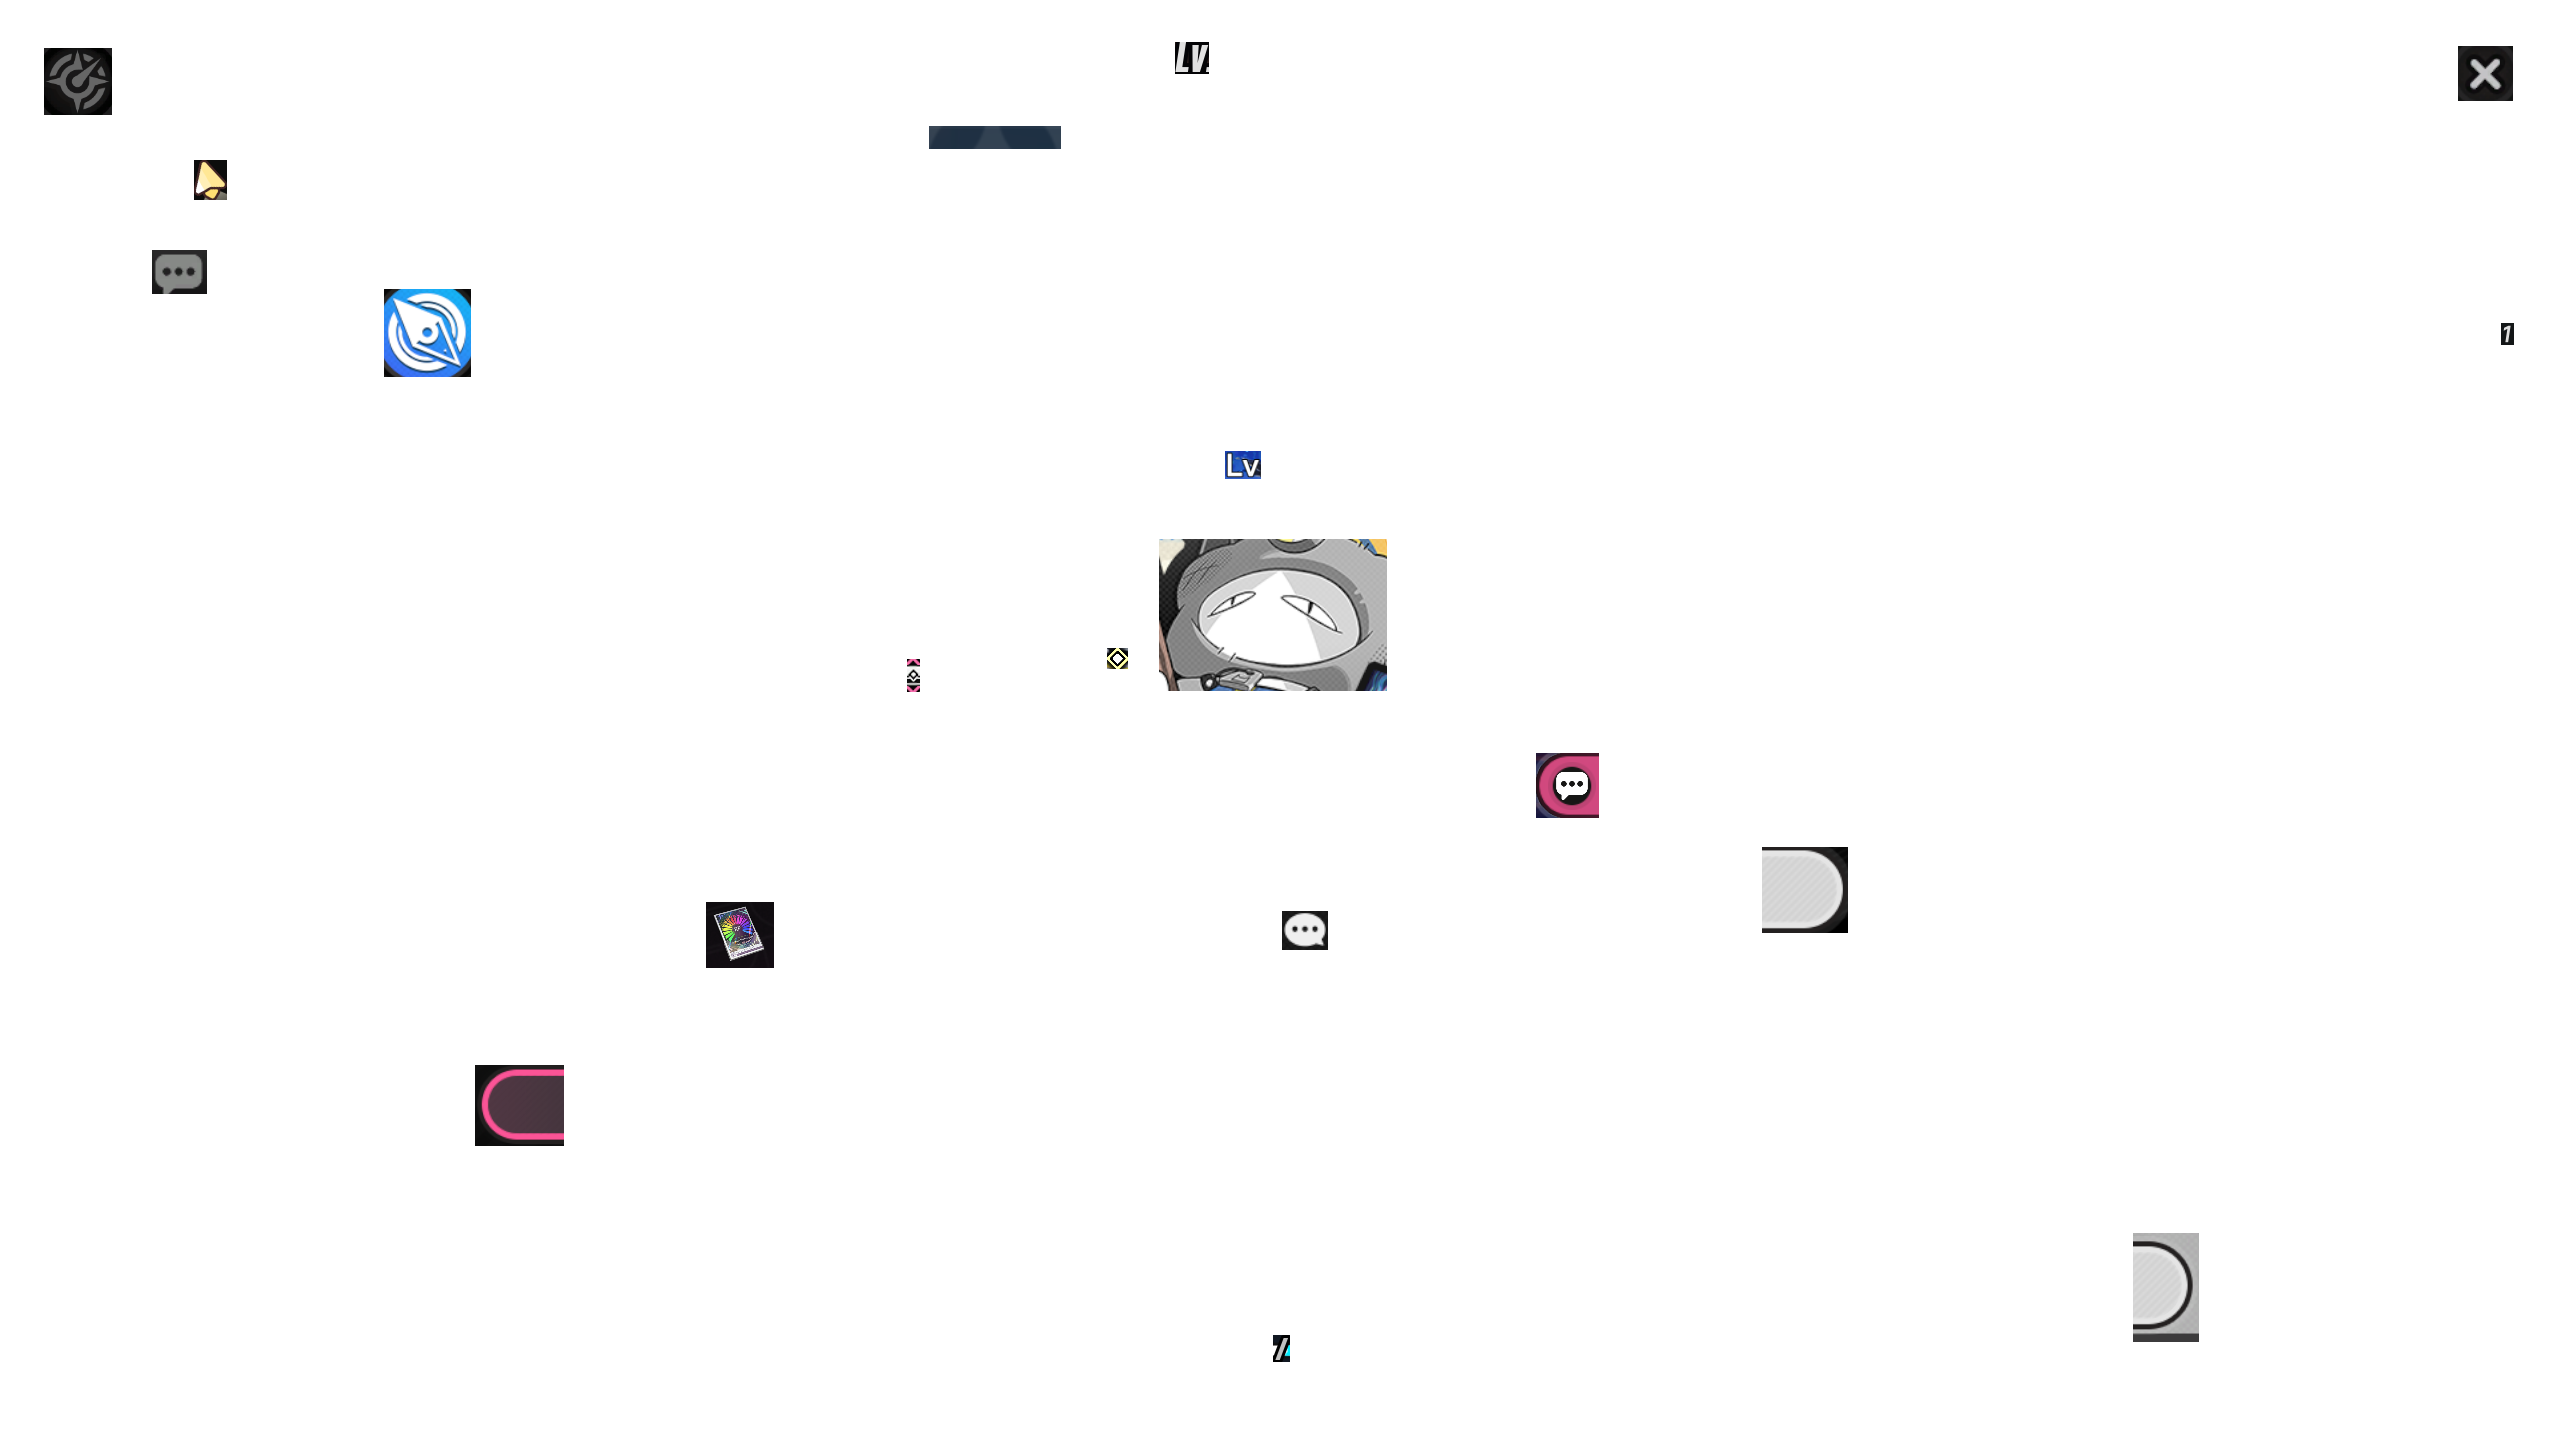
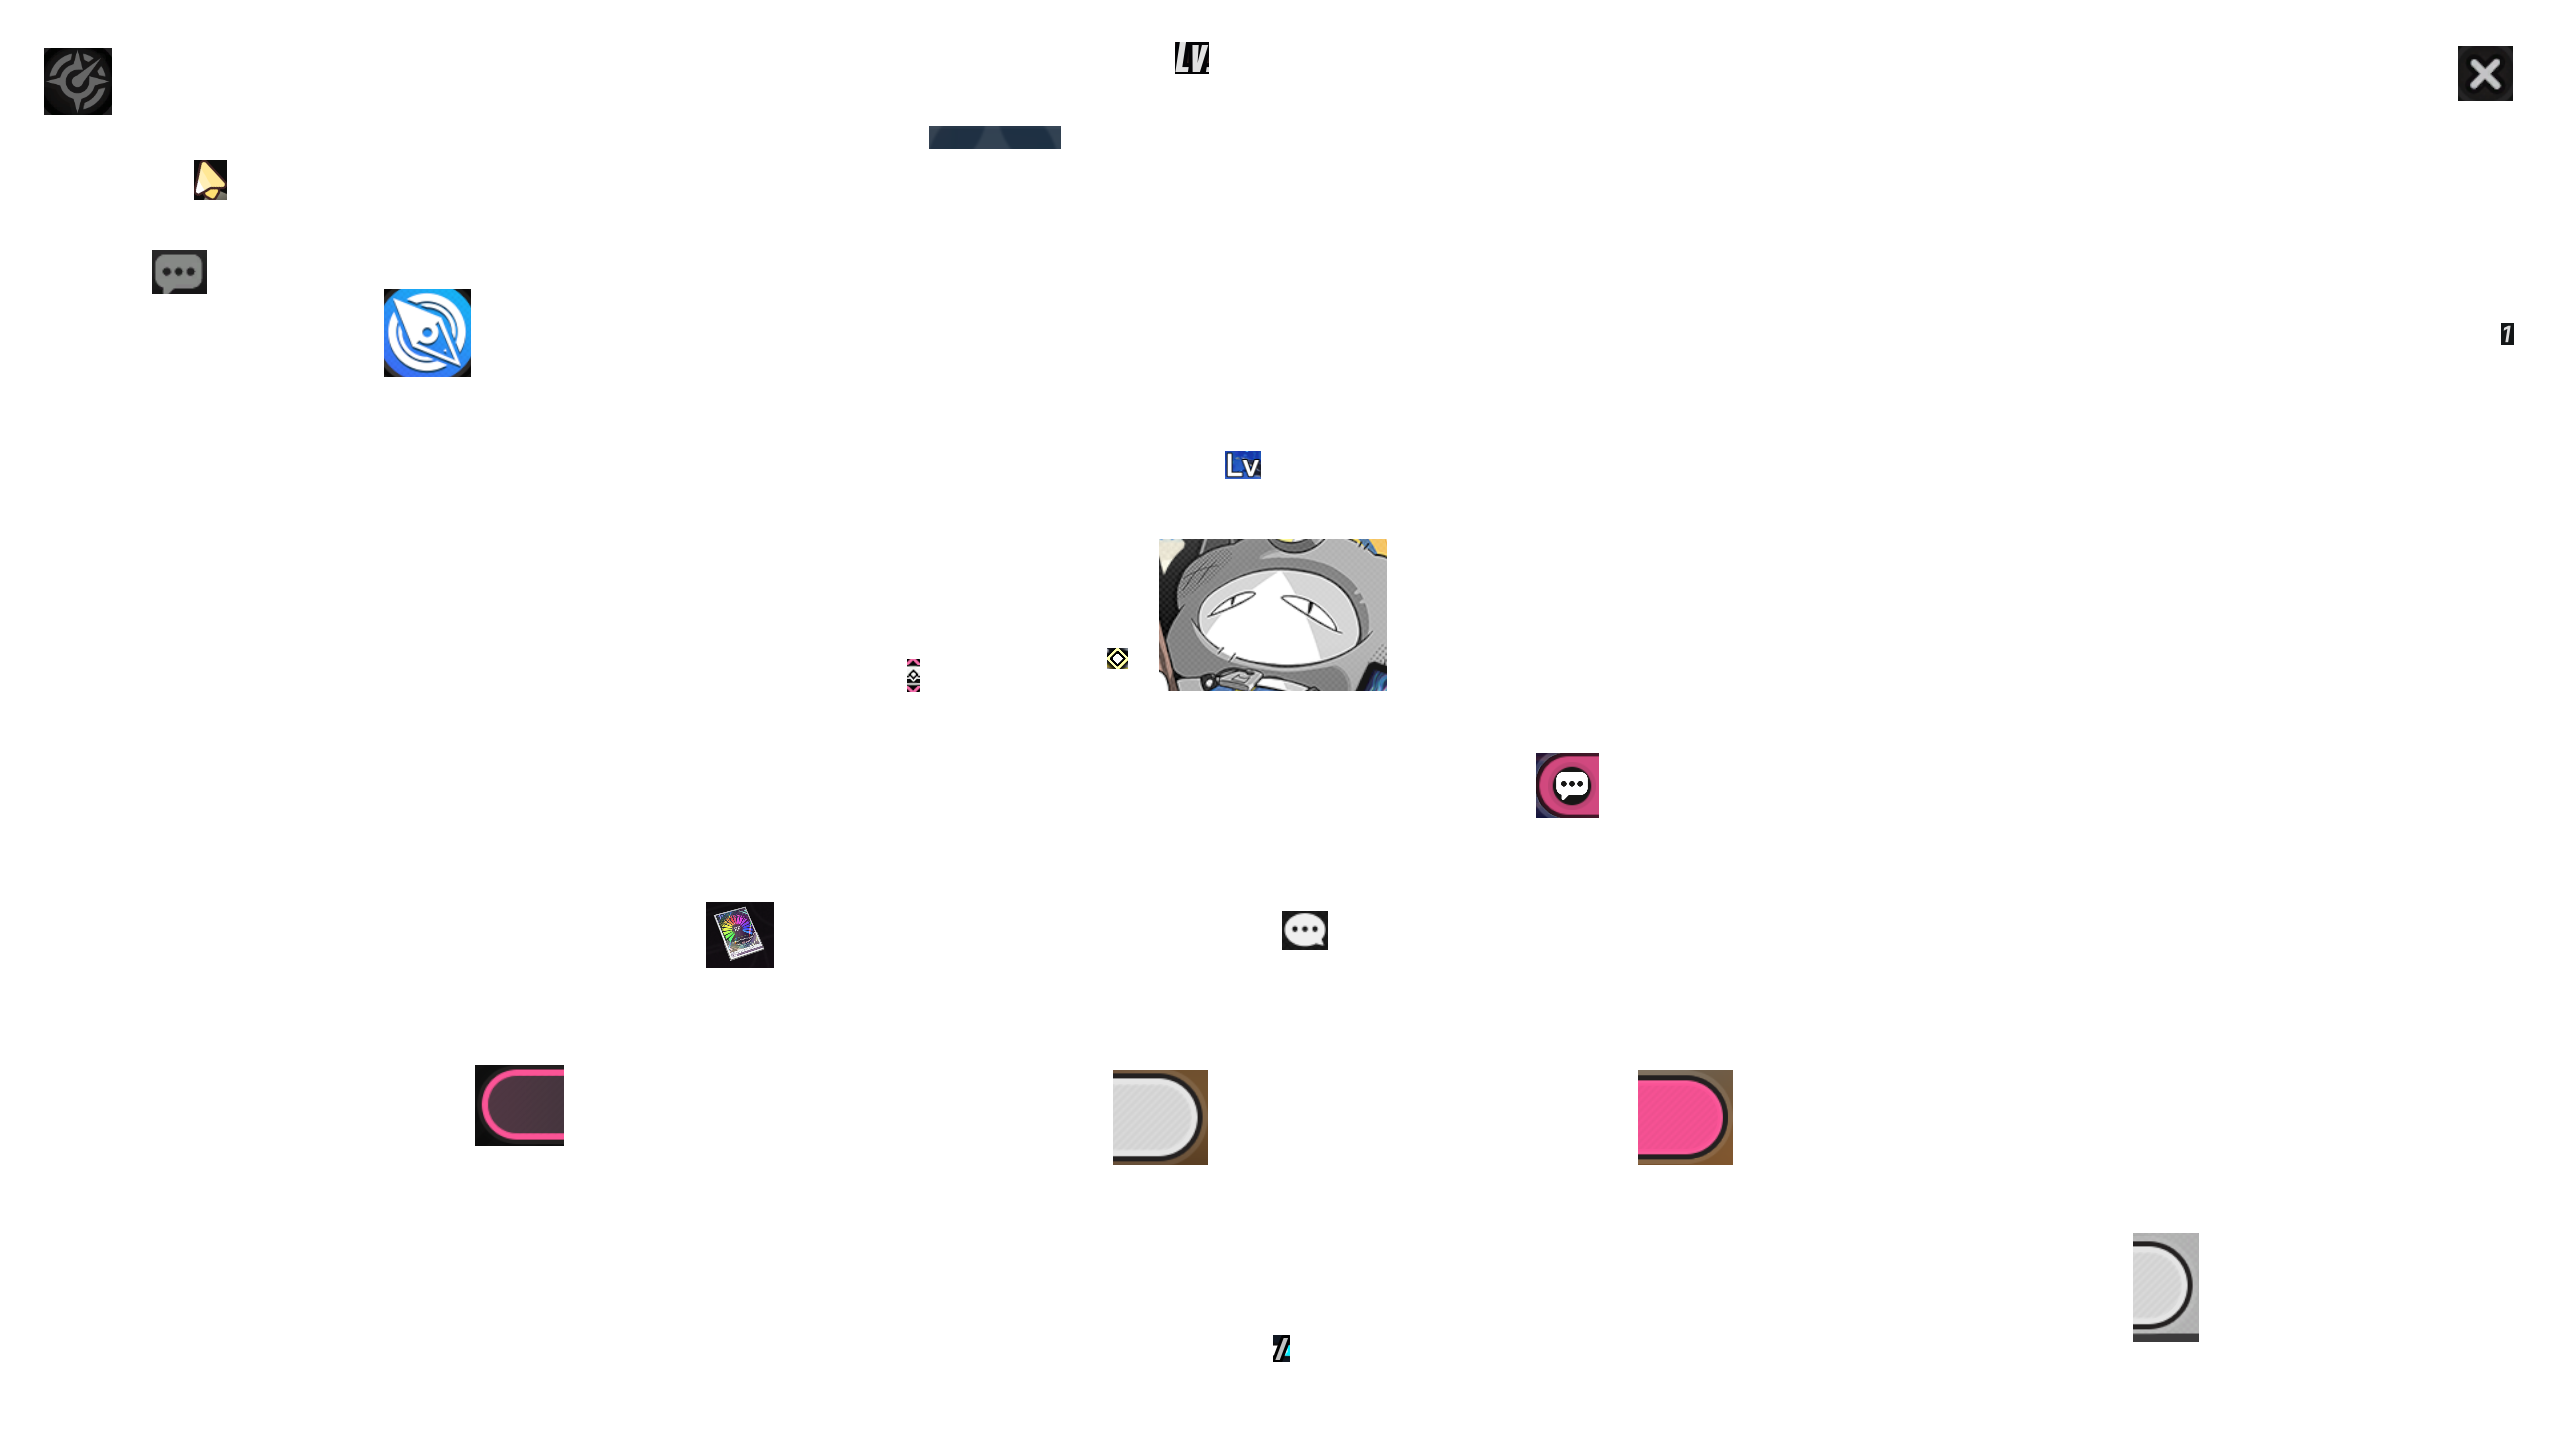
refactor: 重构确认按钮检测逻辑并支持多种按钮类型
- 移除旧的 `skip_quest_confirm` 标签，新增 `confirm_btn_1` 和 `confirm_btn_2` 以提高识别覆盖率。
- 在 `BaseNTETask` 中新增 `find_confirm` 方法，统一处理多种确认按钮的匹配。
- 优化 `wait_click_confirm` 方法，支持更灵活的参数配置和自动居中检测。
- 更新 `FishingTask`、`OwnerSelectionTask` 和 `SkipDialogTask` 适配新的确认按钮检测逻辑，简化任务代码。
- 更新 `coco_annotations.json` 标注数据，同步更新 `ok_templates` 子项目。

Changed region(s): [[0.625, 0.7188, 0.6875, 0.8125], [0.6875, 0.5625, 0.7188, 0.6562], [0.4375, 0.7188, 0.4688, 0.8125]]

diff --git a/src/tasks/OwnerSelectionTask.py b/src/tasks/OwnerSelectionTask.py
@@ -67,6 +67,14 @@ class OwnerSelectionTask(NTEOneTimeTask, RecordTask):
         self.info_set("失败原因", None)
         self.log_info(f"开始店长特供，共 {rounds} 轮")
 
+        self.wait_until(
+            lambda: not self.is_in_team(),
+            pre_action=lambda: self.send_key("f", interval=1),
+            settle_time=0.5,
+            time_out=10,
+            raise_if_not_found=True,
+        )
+
         while round_index <= rounds:
             self.log_info(f"开始第 {round_index} 轮")
 
@@ -91,38 +99,17 @@ class OwnerSelectionTask(NTEOneTimeTask, RecordTask):
         # 步骤1：按 F 进入店长特供页面
         self.info_set("当前阶段", "进入店长特供")
         self.wait_until(
-            lambda: not self.is_in_team(),
-            pre_action=lambda: self.send_key("f", interval=1),
-            settle_time=0.5,
-            time_out=10,
+            lambda: self.find_confirm(box=self.box_of_screen(0.922, 0.889, 0.969, 0.972)),
+            time_out=60,
             raise_if_not_found=True,
+            settle_time=0.25,
         )
         self.sleep(0.5)
         self.record_or_replay_operations(2, instruction_text=self.tr(RECORD_INS))
         self.sleep(0.5)
         # 步骤2：点击开始玩法
         self.info_set("当前阶段", "开始玩法")
-        start_box = self.box_of_screen(0.922, 0.889, 0.969, 0.972, name="start_btn", hcenter=True)
-        button = self.wait_until(
-            lambda: self.find_one(Labels.skip_quest_confirm, box=start_box),
-            settle_time=0.5,
-            time_out=10,
-            raise_if_not_found=True,
-        )
-        self.sleep(0.5)
-
-        change_char_box = self.box_of_screen(
-            0.630, 0.889, 0.679, 0.969, name="change_char_btn", hcenter=True
-        )
-        self.wait_until(
-            lambda: not self.find_one(Labels.skip_quest_confirm, box=change_char_box),
-            pre_action=lambda: self.operate_click(button, interval=1),
-            settle_time=0.5,
-            time_out=10,
-            raise_if_not_found=True,
-        )
-        self.sleep(0.5)
-
+        self.wait_click_confirm(range=(0.922, 0.889, 0.969, 0.972))
         # 步骤3：循环点击 + OCR 检测营业额
         self.info_set("当前阶段", "营业中")
         if not self.run_until_target_revenue():
@@ -130,24 +117,11 @@ class OwnerSelectionTask(NTEOneTimeTask, RecordTask):
 
         # 步骤4：关闭结果界面 → 结算确认
         self.info_set("当前阶段", "结算确认")
-        claim_box = self.box_of_screen(0.629, 0.734, 0.688, 0.819, name="claim_btn", hcenter=True)
-        button = self.wait_until(
-            lambda: self.find_one(Labels.skip_quest_confirm, box=claim_box),
-            pre_action=lambda: self.operate_click(*self.POS_CLOSE, interval=1),
-            settle_time=0.5,
-            time_out=10,
-            raise_if_not_found=True,
+        self.wait_click_confirm(
+            action=lambda: self.operate_click(*self.POS_CLOSE, interval=1),
+            range=(0.629, 0.734, 0.688, 0.819),
         )
         self.sleep(0.5)
-
-        self.wait_until(
-            lambda: not self.find_one(Labels.skip_quest_confirm, box=claim_box),
-            pre_action=lambda: self.operate_click(button, interval=1),
-            time_out=10,
-            raise_if_not_found=True,
-        )
-        self.sleep(0.5)
-
         self.info_set("当前阶段", "本轮完成")
         return True
 

diff --git a/src/tasks/BaseNTETask.py b/src/tasks/BaseNTETask.py
@@ -24,7 +24,7 @@ logger = Logger.get_logger(__name__)
 stamina_re = re.compile(r"(\d+)/(\d+)")
 
 
-class BaseNTETask(BaseTask, CharUIMixin): # type: ignore
+class BaseNTETask(BaseTask, CharUIMixin):  # type: ignore
     DEFAULT_MOVE = False
 
     def __init__(self, *args, **kwargs):
@@ -1047,29 +1047,38 @@ class BaseNTETask(BaseTask, CharUIMixin): # type: ignore
 
     def wait_click_confirm(
         self,
-        action,
+        action: Any | None = None,
         range: tuple[float, float, float, float] | None = None,
+        settle_time=0.25,
         raise_if_not_found=True,
     ):
         if range is None:
             box = self.main_viewport
         else:
-            box = self.box_of_screen(*range)
+            box = self.box_of_screen(*range, hcenter=True)
         button = self.wait_until(
-            lambda: self.find_one(Labels.skip_quest_confirm, box=box),
+            lambda: self.find_confirm(box=box),
             pre_action=action,
-            settle_time=1,
+            settle_time=settle_time,
             raise_if_not_found=raise_if_not_found,
         )
         if not button:
             return False
+        self.sleep(0.1)
         result = self.wait_until(
-            lambda: not self.find_one(Labels.skip_quest_confirm, box=box),
-            pre_action=lambda: self.operate_click(button, interval=2),
-            settle_time=1,
+            lambda: not self.find_confirm(box=box),
+            pre_action=lambda: self.operate_click(button, interval=1),
+            settle_time=settle_time,
             raise_if_not_found=raise_if_not_found,
         )
         return bool(result)
+
+    def find_confirm(self, box=None, threshold=0.7):
+        if not isinstance(box, Box):
+            box = self.main_viewport
+        return self.find_best_match_in_box(
+            box=box, to_find=[Labels.confirm_btn_1, Labels.confirm_btn_2], threshold=threshold
+        )
 
 
 def interac_mask(image):

diff --git a/src/tasks/FishingTask.py b/src/tasks/FishingTask.py
@@ -362,13 +362,13 @@ class FishingTask(NTEOneTimeTask, BaseNTETask):
 
         box = self.box_of_screen(0.927, 0.827, 0.975, 0.912)
         btn = self.wait_strict(
-            lambda: self.find_one(Labels.skip_quest_confirm, box=box),
+            lambda: self.find_confirm(box=box),
             post_action=lambda: self.send_key("f", interval=2),
         )
 
         def action():
             box = self.box_of_screen(0.656, 0.618, 0.700, 0.699)
-            if btn := self.find_one(Labels.skip_quest_confirm, box=box):
+            if btn := self.find_confirm(box=box):
                 self.operate_click(btn, action_name="extra_confirm", interval=2)
 
         self.wait_strict(
@@ -396,11 +396,14 @@ class FishingTask(NTEOneTimeTask, BaseNTETask):
             return True
         return False
 
-    def wait_click_confirm(self, action, range=None, raise_if_not_found=True):
+    def wait_click_confirm(self, action=None, range=None, settle_time=1.0, raise_if_not_found=True):
         if range is None:
-            range=(0.641, 0.610, 0.713, 0.698)
+            range = (0.641, 0.610, 0.713, 0.698)
         return super().wait_click_confirm(
-            action=action, range=range, raise_if_not_found=raise_if_not_found
+            action=action,
+            range=range,
+            settle_time=settle_time,
+            raise_if_not_found=raise_if_not_found,
         )
 
     def wait_strict(

diff --git a/src/tasks/trigger/SkipDialogTask.py b/src/tasks/trigger/SkipDialogTask.py
@@ -83,7 +83,7 @@ class SkipDialogTask(TriggerTask, BaseNTETask):
         return self.find_one(Labels.message_dialog, vertical_variance=0.2, horizontal_variance=0.01)
 
     def skip_confirm(self):
-        if skip_button := self.find_one(Labels.skip_quest_confirm, threshold=0.8):
+        if skip_button := self.find_confirm(threshold=0.8):
             # sleep 0.2 to stable click skip button
             now = time.time()
             self.wait_until(
@@ -96,7 +96,7 @@ class SkipDialogTask(TriggerTask, BaseNTETask):
                 self.sleep(0.4)
             self.operate_click(skip_button)
             self.sleep(0.5)
-            if not self.find_one(Labels.skip_quest_confirm, threshold=0.8):
+            if not self.find_confirm(threshold=0.8):
                 return True
         if self.is_in_team():
             return True

diff --git a/src/Labels.py b/src/Labels.py
@@ -18,6 +18,8 @@ class Labels(str, Enum):
     char_4_text = 'char_4_text'
     claim_icon = 'claim_icon'
     close_button = 'close_button'
+    confirm_btn_1 = 'confirm_btn_1'
+    confirm_btn_2 = 'confirm_btn_2'
     default_fish_bait = 'default_fish_bait'
     default_fish_bait_big = 'default_fish_bait_big'
     dialog_click = 'dialog_click'
@@ -55,7 +57,6 @@ class Labels(str, Enum):
     mini_map_arrow = 'mini_map_arrow'
     monthly_card = 'monthly_card'
     skip_dialog = 'skip_dialog'
-    skip_quest_confirm = 'skip_quest_confirm'
     stamina_icon = 'stamina_icon'
     target = 'target'
     teleport = 'teleport'